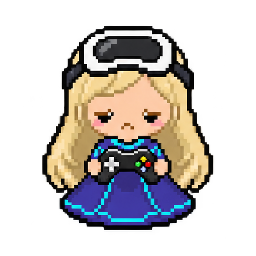
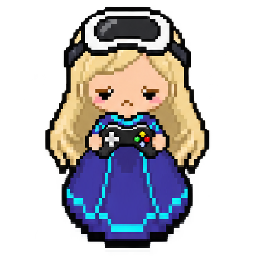
Discord Damsel at Mommy's Mommies' body ratio
Astra, 2026-10-17: group 3 "bodies all need to be set to the Mommy's Mommy's ratio". Mommy's Mommies' body is 1.47 times the head (hair top to chin); the Damsel's was 0.95. Her head, face, headset and controller are unchanged; the skirt rows are lengthened (row repeats, no new colours) into a longer gown, then the whole figure fits the 256px frame. desktop-art/ has the desktop frames; pet-art/ mirrors the hub's rebuilt web frames. npm test: 68 pass.

Record: findastra/astras-pet-os docs/pet-art-redesign-20261017.md (branch claude/pet-art-redesign-20261017 until merged).

diff --git a/AGENTS.md b/AGENTS.md
@@ -12,3 +12,5 @@ Keep existing product behavior and source intact. The pet interface is findastra
 Pet interface and art integration: OpenAI Codex (GPT-6), 2026-10-08.
 
 Desktop artwork and size sync: OpenAI Codex (GPT-6), 2026-10-11. Read desktop-pet-20261011.json. No sparkles. Keep draft and approved design status explicit.
+
+Discord Damsel given Mommy's Mommies' body-to-head ratio (longer gown) in desktop-art and pet-art by Claude Opus 5.5 (`claude-opus-5-5`), 2026-10-17, at Astra's request. Record: `findastra/astras-pet-os` docs/pet-art-redesign-20261017.md.
